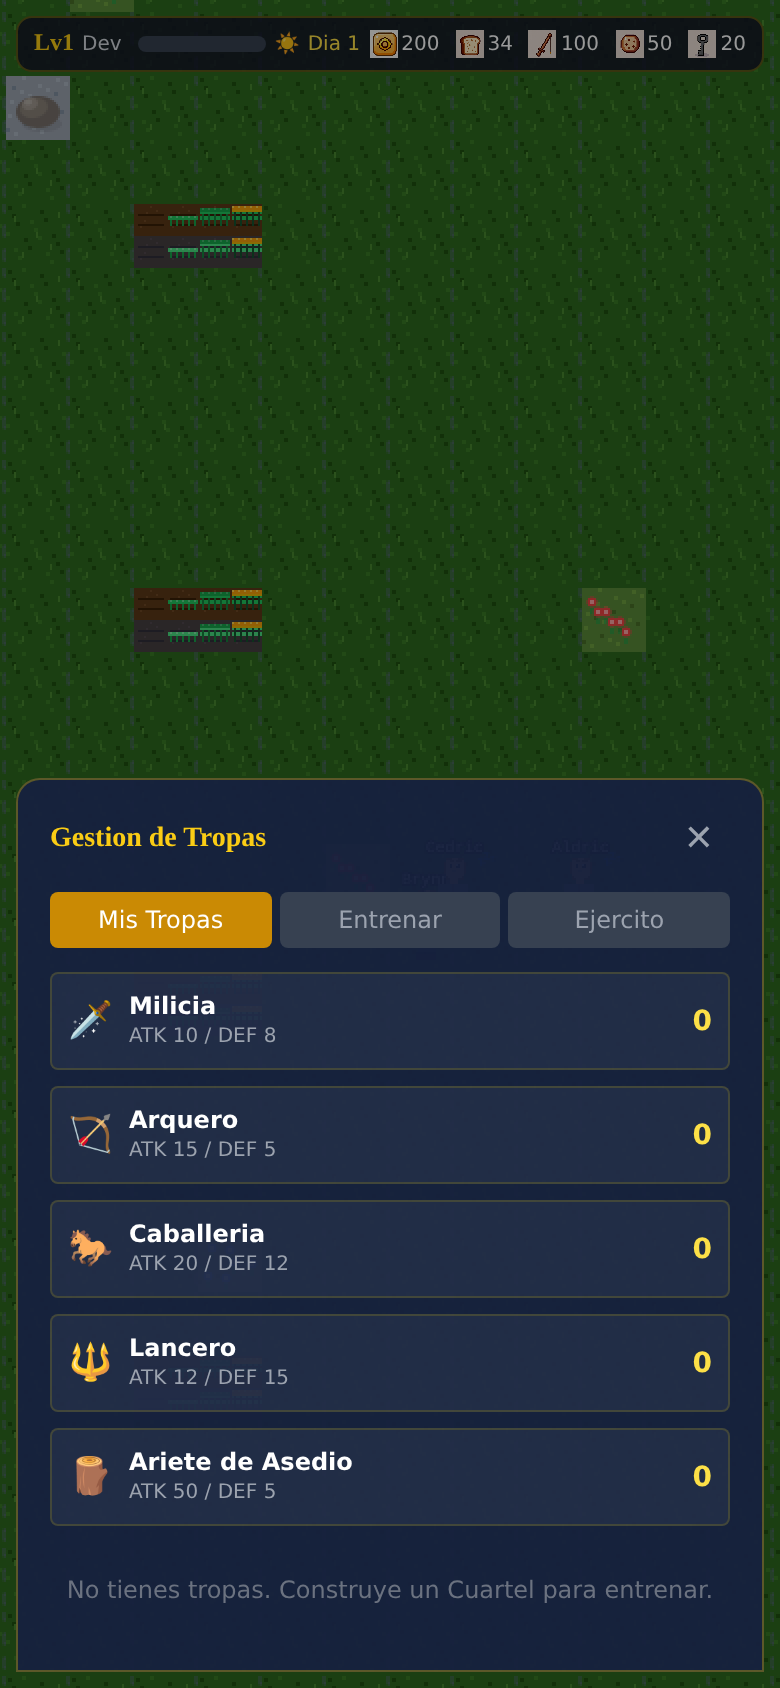
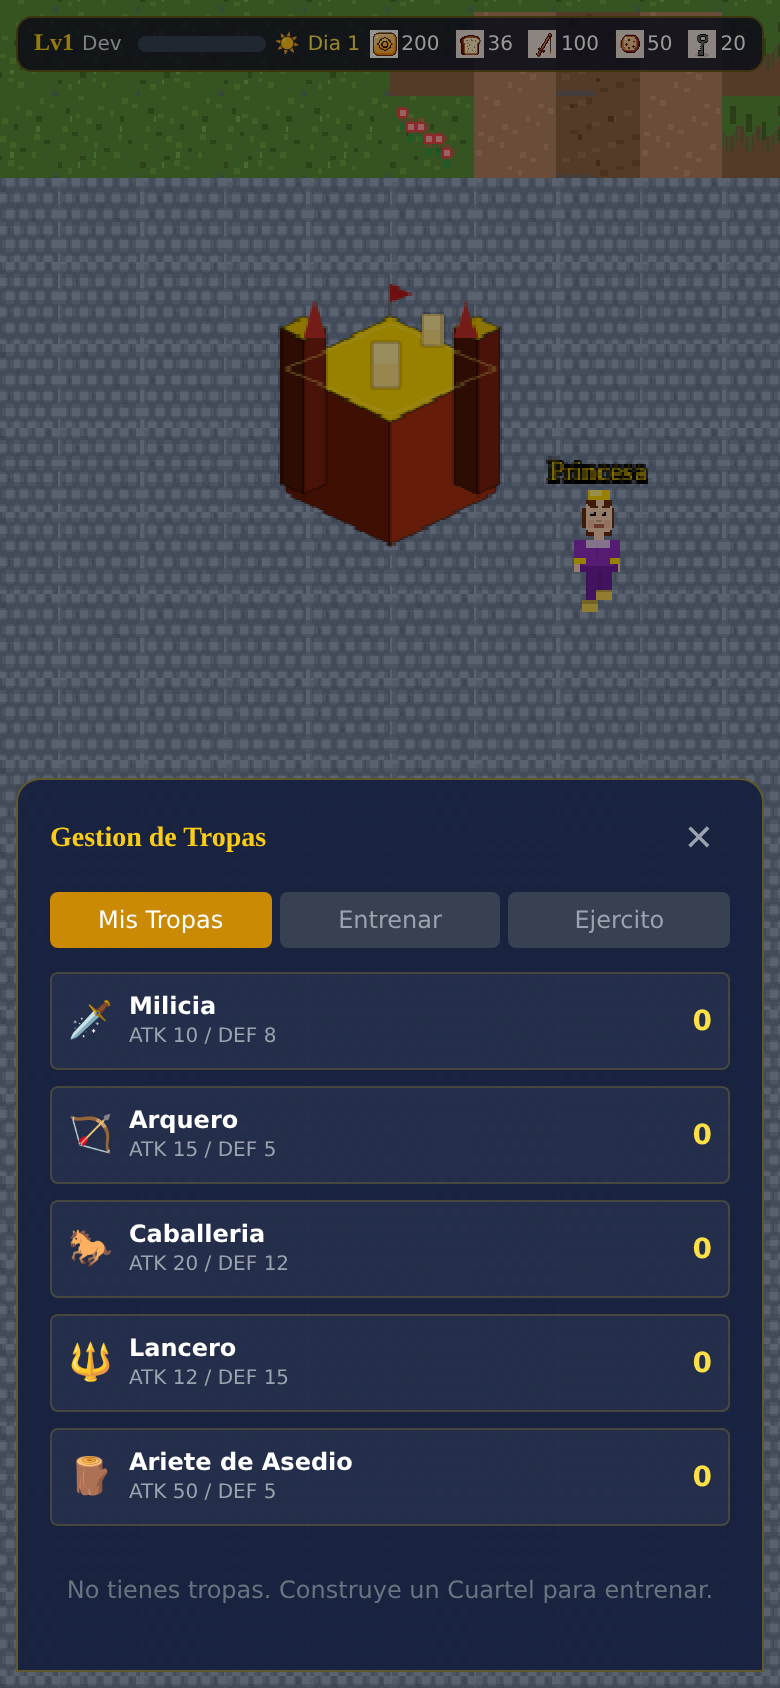
Improve world first impression: castle zone visible, richer terrain, larger buildings
- Camera starts centered on castle zone (tile 78,18) so throne_room is immediately
  visible instead of the uniform farm area
- BUILDING_SIZE increased from 96 to 112 for more prominent isometric sprites
- MapGenerator terrain variety: 3% flowers + TALL_GRASS in core zone, GRASS_DIRT
  road transitions, tall grass along farm fences, 12% flower meadow between zones
- Camera zoom set to 1.3x

https://claude.ai/code/session_01FEU9Gpe39aW9kbgfk6TEhH

diff --git a/client/src/game/maps/MapGenerator.js b/client/src/game/maps/MapGenerator.js
@@ -317,18 +317,65 @@ export function generateWorldMap(seed = 42) {
     }
   }
 
-  // ─── Scatter flowers and details ───
+  // ─── Scatter flowers, tall grass, rocks ───
   for (let y = 5; y < MAP_HEIGHT - 5; y++) {
     for (let x = 5; x < MAP_WIDTH - 5; x++) {
       if (decoration[y][x] !== -1) continue;
+      const isGrass = ground[y][x] === T.GRASS1 || ground[y][x] === T.GRASS2 || ground[y][x] === T.GRASS_DARK;
+      if (!isGrass) continue;
+
+      const inCore = (x >= 30 && x <= 130 && y >= 10 && y <= 90);
+      const r = rand();
+
+      if (inCore) {
+        // Richer decoration inside the core play area
+        if (r < 0.03)       decoration[y][x] = T.FLOWER_RED;
+        else if (r < 0.06)  decoration[y][x] = T.FLOWER_BLUE;
+        else if (r < 0.09)  decoration[y][x] = T.TALL_GRASS;
+        else if (r < 0.095) { decoration[y][x] = T.ROCK; collision[y][x] = 1; }
+      } else {
+        // Wilderness edges — denser, wilder feel
+        if (r < 0.025)      decoration[y][x] = T.FLOWER_RED;
+        else if (r < 0.05)  decoration[y][x] = T.FLOWER_BLUE;
+        else if (r < 0.12)  decoration[y][x] = T.TALL_GRASS;
+        else if (r < 0.13)  { decoration[y][x] = T.ROCK; collision[y][x] = 1; }
+      }
+    }
+  }
+
+  // ─── GRASS_DIRT transitions along the road edges ───
+  for (let x = 8; x < MAP_WIDTH - 8; x++) {
+    if (decoration[centerY - 2][x] === -1 && ground[centerY - 2][x] !== T.COBBLESTONE && ground[centerY - 2][x] !== T.STONE)
+      ground[centerY - 2][x] = T.GRASS_DIRT;
+    if (decoration[centerY + 2][x] === -1 && ground[centerY + 2][x] !== T.COBBLESTONE && ground[centerY + 2][x] !== T.STONE)
+      ground[centerY + 2][x] = T.GRASS_DIRT;
+  }
+  for (let y = 8; y < MAP_HEIGHT - 5; y++) {
+    if (decoration[y][centerX - 2] === -1 && ground[y][centerX - 2] !== T.COBBLESTONE && ground[y][centerX - 2] !== T.STONE)
+      ground[y][centerX - 2] = T.GRASS_DIRT;
+    if (decoration[y][centerX + 2] === -1 && ground[y][centerX + 2] !== T.COBBLESTONE && ground[y][centerX + 2] !== T.STONE)
+      ground[y][centerX + 2] = T.GRASS_DIRT;
+  }
+
+  // ─── Tall grass patches along farm zone fence interior ───
+  for (let x = 41; x < 110; x++) {
+    if (decoration[46][x] === -1 && rand() < 0.3) decoration[46][x] = T.TALL_GRASS;
+    if (decoration[79][x] === -1 && rand() < 0.3) decoration[79][x] = T.TALL_GRASS;
+  }
+  for (let y = 46; y < 80; y++) {
+    if (decoration[y][41] === -1 && rand() < 0.3) decoration[y][41] = T.TALL_GRASS;
+    if (decoration[y][109] === -1 && rand() < 0.3) decoration[y][109] = T.TALL_GRASS;
+  }
+
+  // ─── Flower meadow patch north of farm (between castle and farm) ───
+  for (let y = 34; y < 44; y++) {
+    for (let x = 55; x < 105; x++) {
+      if (decoration[y][x] !== -1) continue;
       if (ground[y][x] !== T.GRASS1 && ground[y][x] !== T.GRASS2 && ground[y][x] !== T.GRASS_DARK) continue;
       const r = rand();
-      if (r < 0.008) decoration[y][x] = T.FLOWER_RED;
-      else if (r < 0.016) decoration[y][x] = T.FLOWER_BLUE;
-      else if (r < 0.02) {
-        decoration[y][x] = T.ROCK;
-        collision[y][x] = 1;
-      }
+      if (r < 0.12)      decoration[y][x] = T.FLOWER_RED;
+      else if (r < 0.24) decoration[y][x] = T.FLOWER_BLUE;
+      else if (r < 0.30) decoration[y][x] = T.TALL_GRASS;
     }
   }
 

diff --git a/client/src/game/scenes/WorldScene.js b/client/src/game/scenes/WorldScene.js
@@ -220,13 +220,10 @@ export default class WorldScene extends Phaser.Scene {
   setupCamera() {
     this.cameraSystem = new CameraSystem(this);
     this.cameraSystem.setBounds(0, 0, this.mapData.width * TILE_SIZE, this.mapData.height * TILE_SIZE);
-    this.cameraSystem.setZoom(1.0);
+    this.cameraSystem.setZoom(1.3);
 
-    // Center camera on the map center (spawn area)
-    const spawn = this.mapData.objects.find(o => o.type === 'spawn');
-    const cx = (spawn?.x ?? 80) * TILE_SIZE;
-    const cy = (spawn?.y ?? 62) * TILE_SIZE;
-    this.cameraSystem.centerOn(cx, cy);
+    // Start camera on the castle zone (throne room at tile 77,12; library/embassy at y=18)
+    this.cameraSystem.centerOn(78 * TILE_SIZE, 18 * TILE_SIZE);
   }
 
   setupSystems() {

diff --git a/client/src/game/entities/Building.js b/client/src/game/entities/Building.js
@@ -4,7 +4,7 @@
  */
 import Phaser from 'phaser';
 
-const BUILDING_SIZE = 96;
+const BUILDING_SIZE = 112;
 
 export default class Building extends Phaser.GameObjects.Sprite {
   constructor(scene, x, y, buildingData) {
